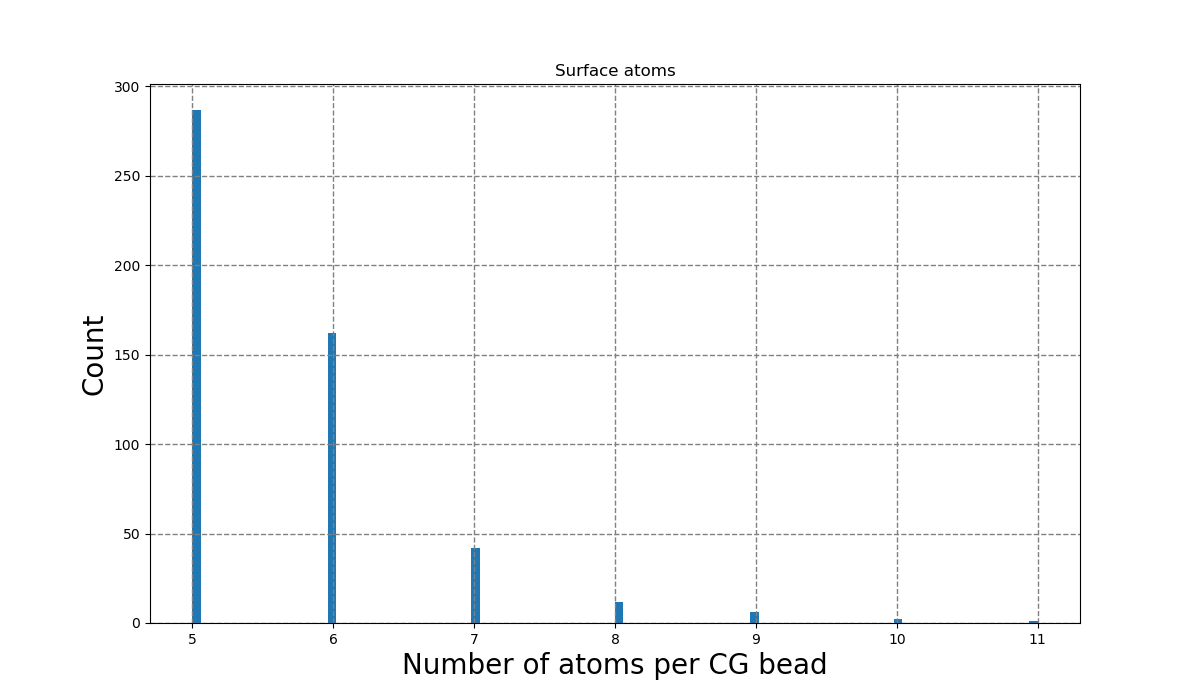
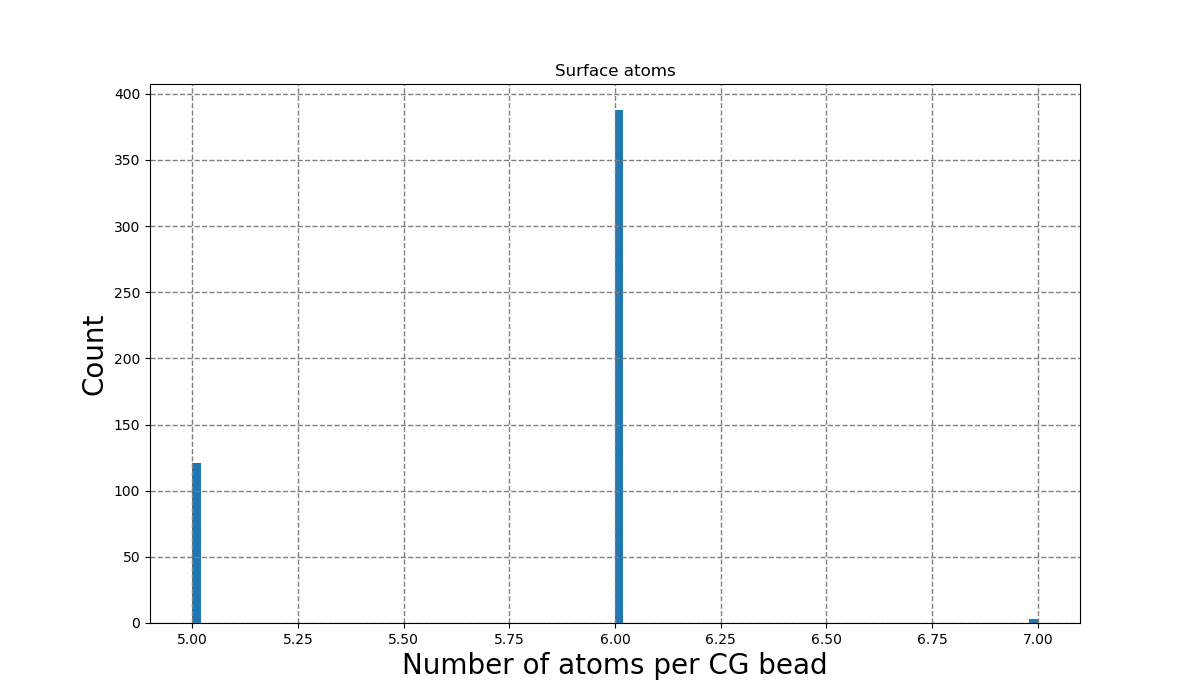
atom distribution fixing algorithm seems to be working now

diff --git a/beadMapping.py b/beadMapping.py
@@ -21,6 +21,10 @@ def CGBeadMappingMain(atoms, CGbeads, spacings):
     print("Calculating distances between every atom and all CG beads...")
     AllDistances = np.linalg.norm(atoms_matrix - CGbeads_matrix, axis=2)
 
+    # Remove unnecessary objects
+    del(atoms_matrix)
+    del(CGbeads_matrix)
+
     # Doing an indirect sort on AllDistances matrix along the axis=1
     # Indices of the closest CG beads to every atom appear in the beginning of every row
 
@@ -28,7 +32,10 @@ def CGBeadMappingMain(atoms, CGbeads, spacings):
     AllDistancesSorted = np.argsort(AllDistances, axis=1)
 
     # The list of closest beads to every atom
-    closestCGBeads = AllDistancesSorted.T[0]
+    closestCGBeads = np.copy(AllDistancesSorted.T[0])
+
+    # Remove unnecessary objects
+    del(AllDistancesSorted)
     
     # Check that the number of atoms and CG beads match
     assert len(closestCGBeads) == len(atoms), "Number of atoms do not match!"
@@ -42,9 +49,13 @@ def CGBeadMappingMain(atoms, CGbeads, spacings):
     checkAssignedAtoms(AllCGBead_AtomIndexes, atoms, spacings, AllDistances, closestCGBeads)
   
     # Fix the atom distribution
-    numIterations = 10
+    print("Fixing atom distribution...")
+    atomsThreshold = len(atoms) // len(CGbeads)
+    print("Setting number of atoms per CG bead threshold to", atomsThreshold)
+    numIterations = 15
     for i in range(numIterations):
-        fixAtomDistribution(5, AllCGBead_AtomIndexes, AllDistances, CGbeads, spacings)
+        print("\nFixing iteration number", i + 1, "...")
+        fixAtomDistribution(atomsThreshold, AllCGBead_AtomIndexes, AllDistances, CGbeads, spacings)
     
 
     # Check the assignements again after the fixing
@@ -54,9 +65,7 @@ def CGBeadMappingMain(atoms, CGbeads, spacings):
 
 def fixAtomDistribution(atomsThreshold, AllCGBead_AtomIndexes, AllDistances, CGbeads, spacings):
     # Fixing the atom distribution
-    print("Fixing atom distribution...")
     
-    #atomsThreshold = 5
     smallBeads = 0
     Nfixes = 0
 
@@ -67,9 +76,15 @@ def fixAtomDistribution(atomsThreshold, AllCGBead_AtomIndexes, AllDistances, CGb
             CGBeadAtomDistances = np.argsort(AllDistances.T[CGbead_index1])
             smallBeads += 1
 
+            counter = 0
             while NatomsInBead < atomsThreshold:
-                print("Fixing atom distribution for CG bead", CGbead_index1, ":", AllCGBead_AtomIndexes[CGbead_index1])
-                print("Number of atoms in the CG bead", CGbead_index1, "is", NatomsInBead)
+                #print("Fixing atom distribution for CG bead", CGbead_index1, ":", AllCGBead_AtomIndexes[CGbead_index1])
+                #print("Number of atoms in the CG bead", CGbead_index1, "is", NatomsInBead)
+                counter += 1
+
+                if counter > 10:
+                    #print("Cannot add more atoms to the CG bead " + str(CGbead_index1) + ". Going to the next one.")
+                    break
 
                 for CGbead_index2 in range(len(AllCGBead_AtomIndexes)):
                     if (#isNeighbor(CGbeads[CGbead_index1], CGbeads[CGbead_index2], spacings) and#
@@ -78,101 +93,114 @@ def fixAtomDistribution(atomsThreshold, AllCGBead_AtomIndexes, AllDistances, CGb
 
                         Nfixes += 1
 
-                        print("Picking CG bead", CGbead_index2, ":", AllCGBead_AtomIndexes[CGbead_index2])
-                        print("Removing atom", CGBeadAtomDistances[NatomsInBead])
+                        #print("Picking CG bead", CGbead_index2, ":", AllCGBead_AtomIndexes[CGbead_index2])
+                        #print("Removing atom", CGBeadAtomDistances[NatomsInBead])
 
                         AllCGBead_AtomIndexes[CGbead_index2].remove(CGBeadAtomDistances[NatomsInBead])
                         AllCGBead_AtomIndexes[CGbead_index1].append(CGBeadAtomDistances[NatomsInBead])
                         
                         NatomsInBead += 1
-                
+                    
                     elif (#isNeighbor(CGbeads[CGbead_index1], CGbeads[CGbead_index2], spacings) and#
                         NatomsInBead < len(AllCGBead_AtomIndexes[CGbead_index2]) and
                         CGBeadAtomDistances[NatomsInBead + 1] in AllCGBead_AtomIndexes[CGbead_index2]):
 
                         Nfixes += 1
 
-                        print("Picking CG bead", CGbead_index2, ":", AllCGBead_AtomIndexes[CGbead_index2])
-                        print("Removing atom", CGBeadAtomDistances[NatomsInBead + 1])
+                        #print("Picking CG bead", CGbead_index2, ":", AllCGBead_AtomIndexes[CGbead_index2])
+                        #print("Removing atom", CGBeadAtomDistances[NatomsInBead + 1])
 
                         AllCGBead_AtomIndexes[CGbead_index2].remove(CGBeadAtomDistances[NatomsInBead + 1])
                         AllCGBead_AtomIndexes[CGbead_index1].append(CGBeadAtomDistances[NatomsInBead + 1])
                         
                         NatomsInBead += 1
-                
+                    
                     elif (#isNeighbor(CGbeads[CGbead_index1], CGbeads[CGbead_index2], spacings) and#
                         NatomsInBead < len(AllCGBead_AtomIndexes[CGbead_index2]) and
                         CGBeadAtomDistances[NatomsInBead + 2] in AllCGBead_AtomIndexes[CGbead_index2]):
 
                         Nfixes += 1
 
-                        print("Picking CG bead", CGbead_index2, ":", AllCGBead_AtomIndexes[CGbead_index2])
-                        print("Removing atom", CGBeadAtomDistances[NatomsInBead + 2])
+                        #print("Picking CG bead", CGbead_index2, ":", AllCGBead_AtomIndexes[CGbead_index2])
+                        #print("Removing atom", CGBeadAtomDistances[NatomsInBead + 2])
 
                         AllCGBead_AtomIndexes[CGbead_index2].remove(CGBeadAtomDistances[NatomsInBead + 2])
                         AllCGBead_AtomIndexes[CGbead_index1].append(CGBeadAtomDistances[NatomsInBead + 2])
                         
                         NatomsInBead += 1
-                
+                    
                     elif (#isNeighbor(CGbeads[CGbead_index1], CGbeads[CGbead_index2], spacings) and#
                         NatomsInBead < len(AllCGBead_AtomIndexes[CGbead_index2]) and 
                         CGBeadAtomDistances[NatomsInBead + 3] in AllCGBead_AtomIndexes[CGbead_index2]):
 
                         Nfixes += 1
 
-                        print("Picking CG bead", CGbead_index2, ":", AllCGBead_AtomIndexes[CGbead_index2])
-                        print("Removing atom", CGBeadAtomDistances[NatomsInBead + 3])
+                        #print("Picking CG bead", CGbead_index2, ":", AllCGBead_AtomIndexes[CGbead_index2])
+                        #print("Removing atom", CGBeadAtomDistances[NatomsInBead + 3])
 
                         AllCGBead_AtomIndexes[CGbead_index2].remove(CGBeadAtomDistances[NatomsInBead + 3])
                         AllCGBead_AtomIndexes[CGbead_index1].append(CGBeadAtomDistances[NatomsInBead + 3])
                         
                         NatomsInBead += 1
-                
+                    
                     elif (#isNeighbor(CGbeads[CGbead_index1], CGbeads[CGbead_index2], spacings) and#
                         NatomsInBead < len(AllCGBead_AtomIndexes[CGbead_index2]) and
                         CGBeadAtomDistances[NatomsInBead + 4] in AllCGBead_AtomIndexes[CGbead_index2]):
 
                         Nfixes += 1
 
-                        print("Picking CG bead", CGbead_index2, ":", AllCGBead_AtomIndexes[CGbead_index2])
-                        print("Removing atom", CGBeadAtomDistances[NatomsInBead + 4])
+                        #print("Picking CG bead", CGbead_index2, ":", AllCGBead_AtomIndexes[CGbead_index2])
+                        #print("Removing atom", CGBeadAtomDistances[NatomsInBead + 4])
 
                         AllCGBead_AtomIndexes[CGbead_index2].remove(CGBeadAtomDistances[NatomsInBead + 4])
                         AllCGBead_AtomIndexes[CGbead_index1].append(CGBeadAtomDistances[NatomsInBead + 4])
                         
                         NatomsInBead += 1
-                
+                    
                     elif (#isNeighbor(CGbeads[CGbead_index1], CGbeads[CGbead_index2], spacings) and#
                         NatomsInBead < len(AllCGBead_AtomIndexes[CGbead_index2]) and
                         CGBeadAtomDistances[NatomsInBead + 5] in AllCGBead_AtomIndexes[CGbead_index2]):
 
                         Nfixes += 1
 
-                        print("Picking CG bead", CGbead_index2, ":", AllCGBead_AtomIndexes[CGbead_index2])
-                        print("Removing atom", CGBeadAtomDistances[NatomsInBead + 5])
+                        #print("Picking CG bead", CGbead_index2, ":", AllCGBead_AtomIndexes[CGbead_index2])
+                        #print("Removing atom", CGBeadAtomDistances[NatomsInBead + 5])
 
                         AllCGBead_AtomIndexes[CGbead_index2].remove(CGBeadAtomDistances[NatomsInBead + 5])
                         AllCGBead_AtomIndexes[CGbead_index1].append(CGBeadAtomDistances[NatomsInBead + 5])
                         
                         NatomsInBead += 1
-                
+                    
                     elif (#isNeighbor(CGbeads[CGbead_index1], CGbeads[CGbead_index2], spacings) and#
                         NatomsInBead < len(AllCGBead_AtomIndexes[CGbead_index2]) and
                         CGBeadAtomDistances[NatomsInBead + 6] in AllCGBead_AtomIndexes[CGbead_index2]):
 
                         Nfixes += 1
 
-                        print("Picking CG bead", CGbead_index2, ":", AllCGBead_AtomIndexes[CGbead_index2])
-                        print("Removing atom", CGBeadAtomDistances[NatomsInBead + 6])
+                        #print("Picking CG bead", CGbead_index2, ":", AllCGBead_AtomIndexes[CGbead_index2])
+                        #print("Removing atom", CGBeadAtomDistances[NatomsInBead + 6])
 
                         AllCGBead_AtomIndexes[CGbead_index2].remove(CGBeadAtomDistances[NatomsInBead + 6])
                         AllCGBead_AtomIndexes[CGbead_index1].append(CGBeadAtomDistances[NatomsInBead + 6])
                         
                         NatomsInBead += 1
-                
-                        
+                    
+                    elif (#isNeighbor(CGbeads[CGbead_index1], CGbeads[CGbead_index2], spacings) and#
+                        NatomsInBead < len(AllCGBead_AtomIndexes[CGbead_index2]) and
+                        CGBeadAtomDistances[NatomsInBead + 7] in AllCGBead_AtomIndexes[CGbead_index2]):
 
-    print("Number of beads with less atoms than the threshold value:", smallBeads)
+                        Nfixes += 1
+
+                        #print("Picking CG bead", CGbead_index2, ":", AllCGBead_AtomIndexes[CGbead_index2])
+                        #print("Removing atom", CGBeadAtomDistances[NatomsInBead + 6])
+
+                        AllCGBead_AtomIndexes[CGbead_index2].remove(CGBeadAtomDistances[NatomsInBead + 7])
+                        AllCGBead_AtomIndexes[CGbead_index1].append(CGBeadAtomDistances[NatomsInBead + 7])
+                        
+                        NatomsInBead += 1
+                    """
+                    """
+    print("\nNumber of beads with less atoms than the threshold value:", smallBeads)
     print("Number of performed fixes:", Nfixes)
 
     return AllCGBead_AtomIndexes
@@ -197,11 +225,24 @@ def checkAssignedAtoms(AllCGBead_AtomIndexes, atoms, spacings, AllDistances, clo
     assert len(AllAtomIndexes) == len(set(AllAtomIndexes)), "There are duplicate atoms!"
   
 
-    # Calculating a half of grid cell diagonal from spacings to compare it with
+    # Calculating a grid cell diagonal from spacings to compare it with
     # the distances between CG bead and assigned atoms
-    # We take half of the diagonal because the CG bead is located in the center
-    gridCelldiag = np.sqrt(spacings[0]**2 + spacings[1]**2 + spacings[2]**2) / 2
+    gridCelldiag = np.sqrt(spacings[0]**2 + spacings[1]**2 + spacings[2]**2)
 
+    warningCounter = 0
+    for CGbead_index in range(len(AllCGBead_AtomIndexes)):
+        for atom_index in AllCGBead_AtomIndexes[CGbead_index]:
+            if AllDistances[atom_index][CGbead_index] > gridCelldiag:
+                warningCounter += 1
+                print("\nDistance between atom", atom_index, "and CG bead", CGbead_index, 
+                "is larger than the grid cell diagonal.")
+
+    if warningCounter == 0:
+        print("All distances between CG beads and assigned atoms are within the grid cell diagonal.")
+    else:
+        print("\n", warningCounter, "distances are larger than half of the grid cell diagonal.")
+
+    """
     warningCounter = 0
     for atom_index in range(len(closestCGBeads)):
         if AllDistances[atom_index][closestCGBeads[atom_index]] > gridCelldiag:
@@ -213,7 +254,7 @@ def checkAssignedAtoms(AllCGBead_AtomIndexes, atoms, spacings, AllDistances, clo
         print("All distances between CG beads and assigned atoms are within half of the grid cell diagonal.")
     else:
         print(warningCounter, "distances are larger than half of the grid cell diagonal.")
-
+    """
     return
 
 

diff --git a/SlabCGBeadMapping.py b/SlabCGBeadMapping.py
@@ -16,7 +16,7 @@ CGbeadHistogram(AllCGBead_AtomIndexes, "All atoms", 100)
 CGbeadHistogram(CGbeads_Surface, "Surface atoms", 100)
 CGbeadHistogram(CGbeads_FirstLayer, "First layer atoms", 100)
 
-print('Bead mapping took',round(end - start, 4), ' seconds.')
+print('\nBead mapping took',round(end - start, 4), ' seconds.')
 
 
 
